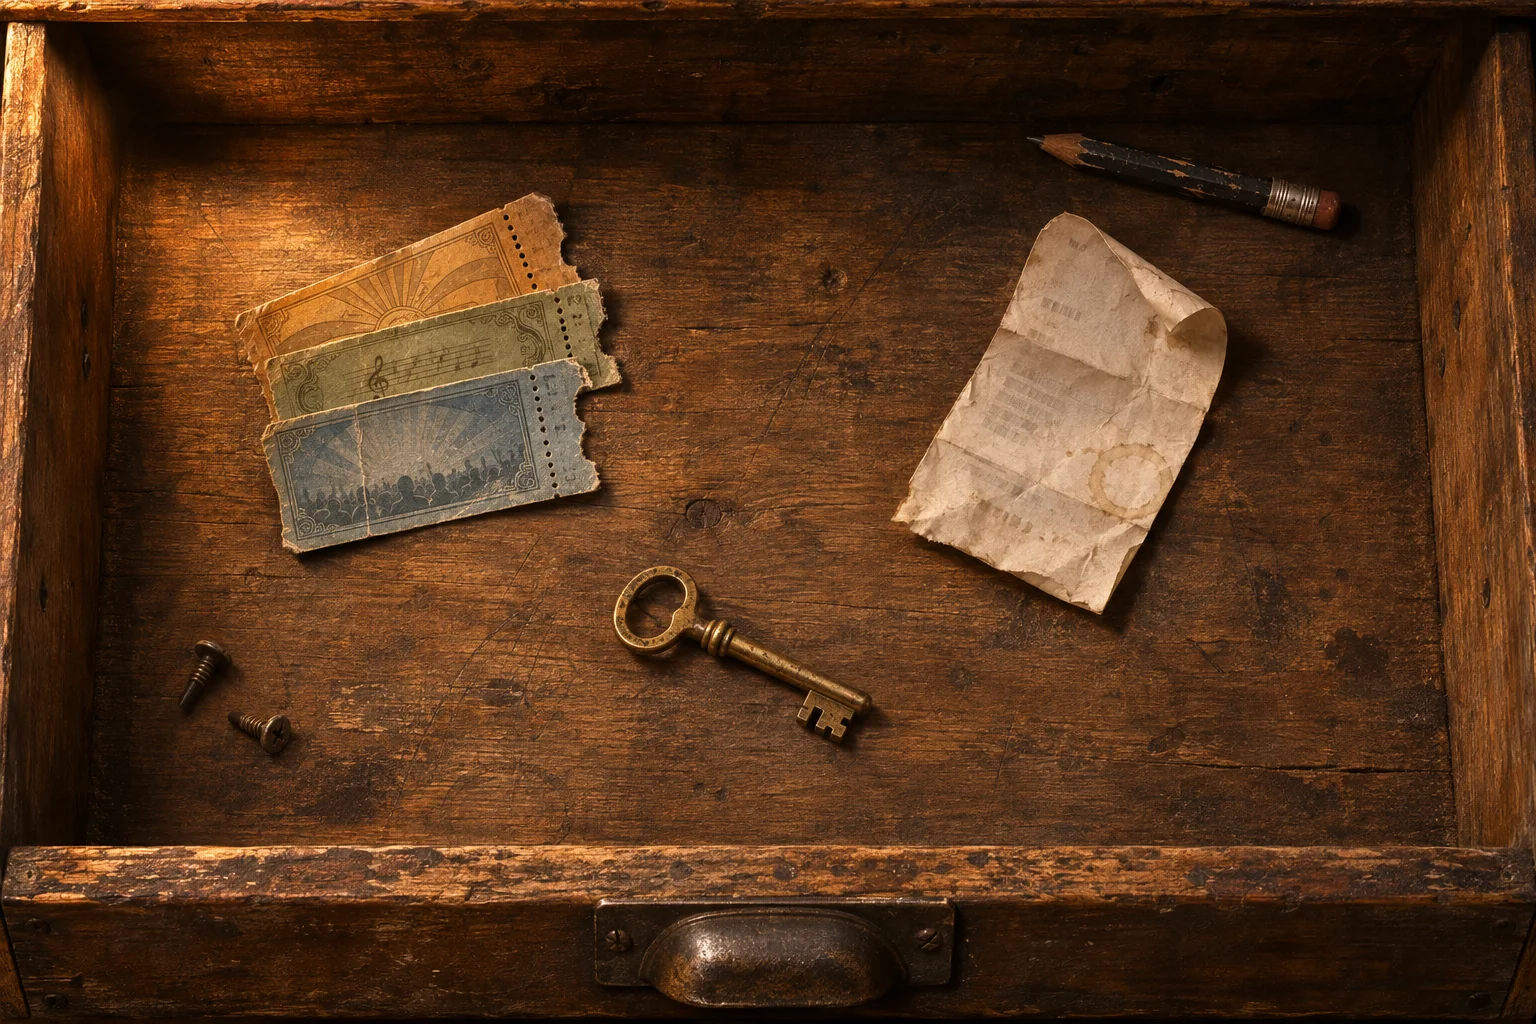
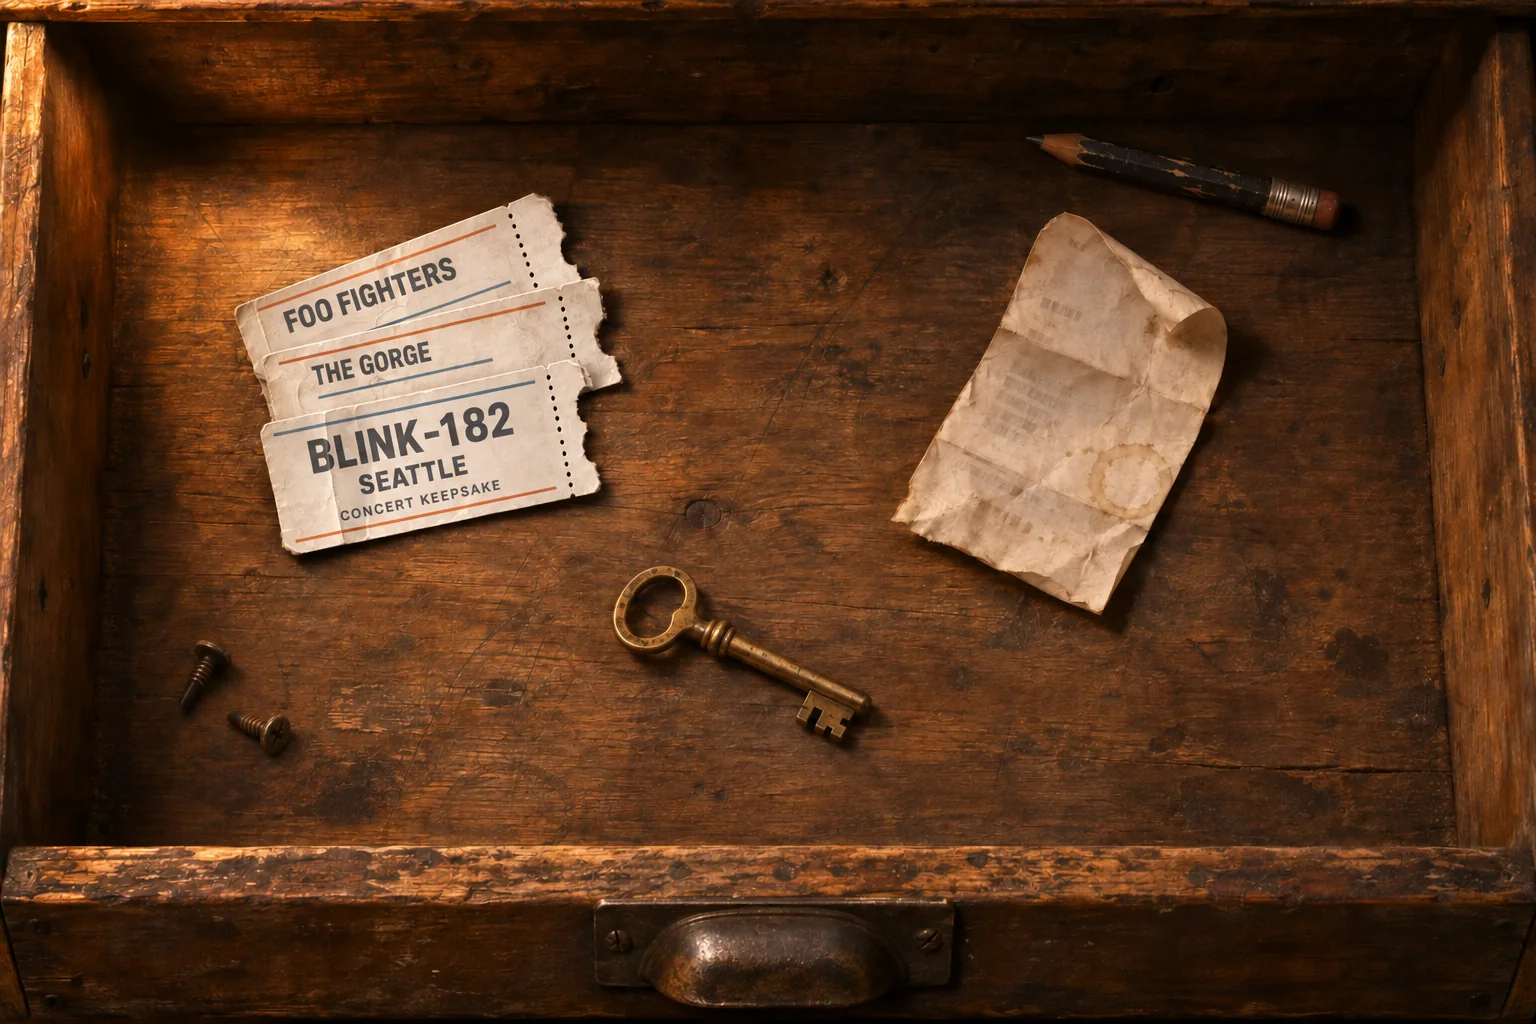
Use modern concert keepsakes in the workshop drawer

diff --git a/workshop.html b/workshop.html
@@ -1976,11 +1976,11 @@
       <section class="drawer-object" id="drawerTickets" data-item="tickets" hidden>
         <div class="drawer-object-photo" aria-hidden="true"></div>
         <div class="drawer-object-copy">
-          <h3 tabindex="-1">Ticket stubs</h3>
+          <h3 tabindex="-1">Concert keepsakes</h3>
           <ul>
-            <li>Blink-182 in Seattle</li>
-            <li>Blink-182 at the Gorge. Sunburn included.</li>
-            <li>Foo Fighters in Fairbanks</li>
+            <li><strong>Blink-182</strong> · Climate Pledge Arena, Seattle · June 25, 2023</li>
+            <li><strong>Blink-182</strong> · The Gorge Amphitheatre · Sunburn included.</li>
+            <li><strong>Foo Fighters</strong> · Carlson Center, Fairbanks · August 21, 2021</li>
           </ul>
           <button class="drawer-back" type="button">Put them back</button>
         </div>
